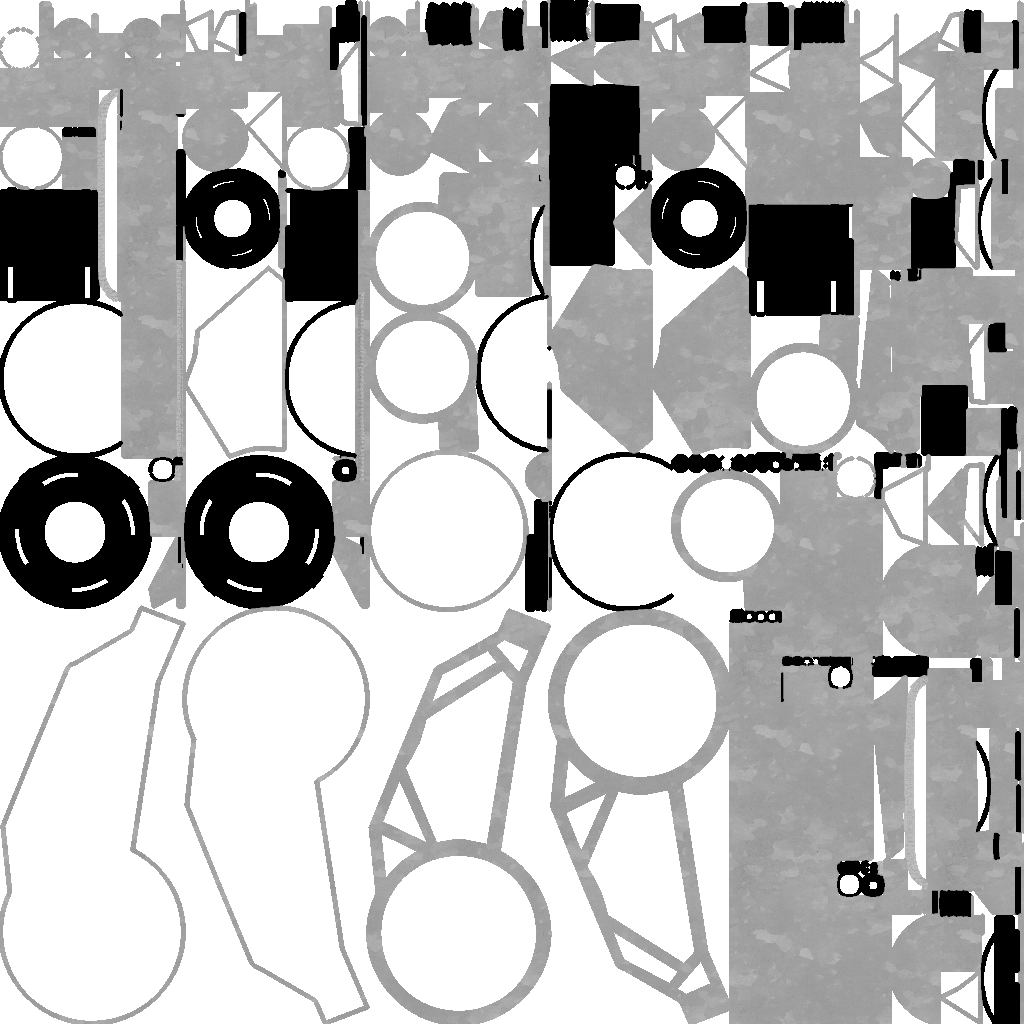
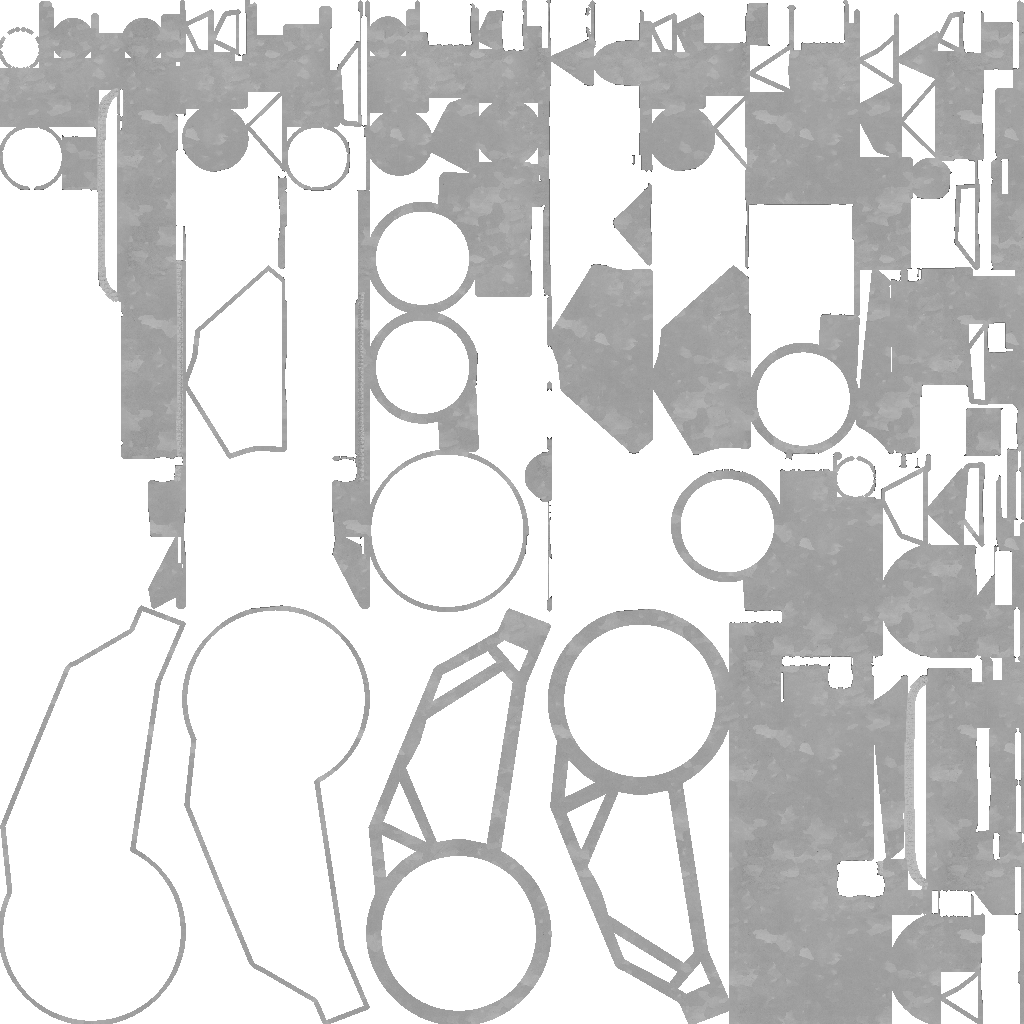
riduzione riflesso ro rough

diff --git a/index3.html b/index3.html
@@ -323,7 +323,7 @@
 			function loadTexture(file) {
 					var texture = new THREE.TextureLoader().load( file , function ( texture ) {
 						texture.minFilter = THREE.LinearMipMapLinearFilter;
-						texture.anisotropy = renderer.getMaxAnisotropy();
+						texture.anisotropy = renderer.capabilities.getMaxAnisotropy();
 						texture.wrapS = texture.wrapT = THREE.RepeatWrapping;
 						texture.offset.set(0, 0);
 						texture.needsUpdate = true;
